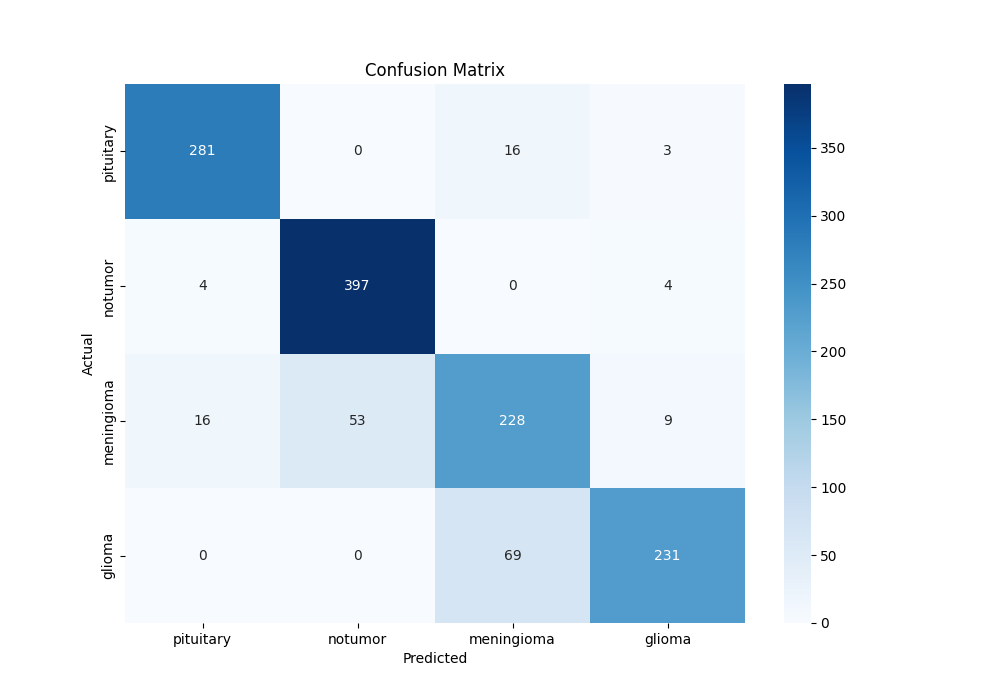
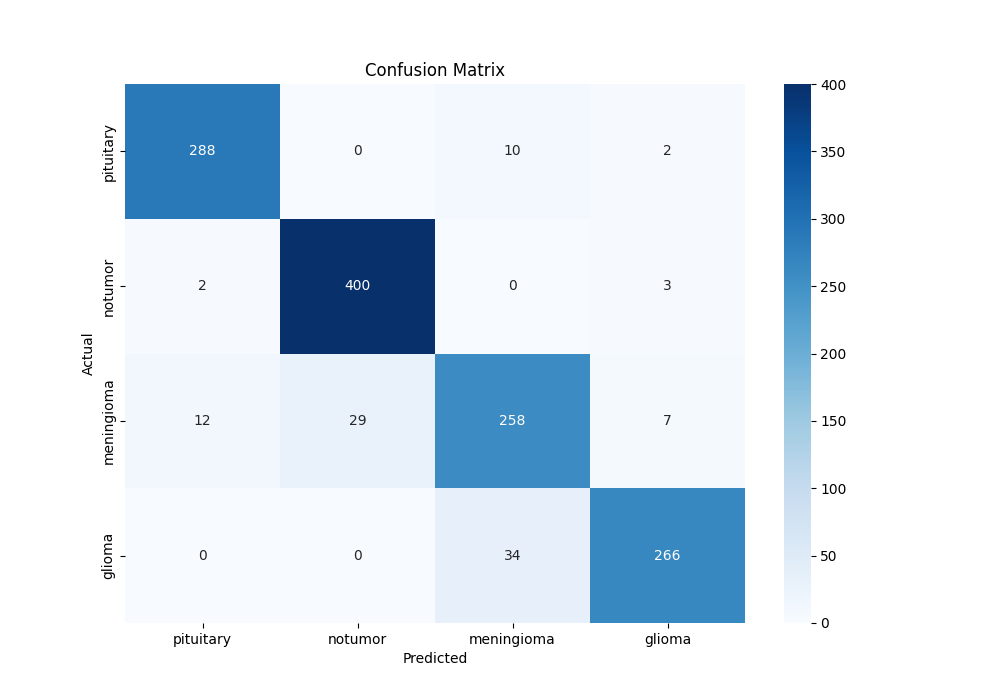
90.3/92.44 train/test accuracy settings

diff --git a/mri-classification.py b/mri-classification.py
@@ -334,7 +334,7 @@ class MRI_Dataset(Dataset):
 
 def main():
     set_seed(42)
-    batch_size = 32  # Adjust based on your GPU memory
+    batch_size = 16  # Adjust based on your GPU memory
     # Device
     device = torch.device('cuda' if torch.cuda.is_available() else 'cpu')
     print(f'Using device: {device}')
@@ -390,7 +390,7 @@ def main():
     optimizer = torch.optim.AdamW(params, weight_decay=0.01)
     
     # Calculate exact number of steps
-    total_epochs = 50  # Adjust based on your dataset size and resources
+    total_epochs = 100  # Adjust based on your dataset size and resources
     total_steps = total_epochs * len(trainloader)  
     
     # OneCycle scheduler with exact steps
